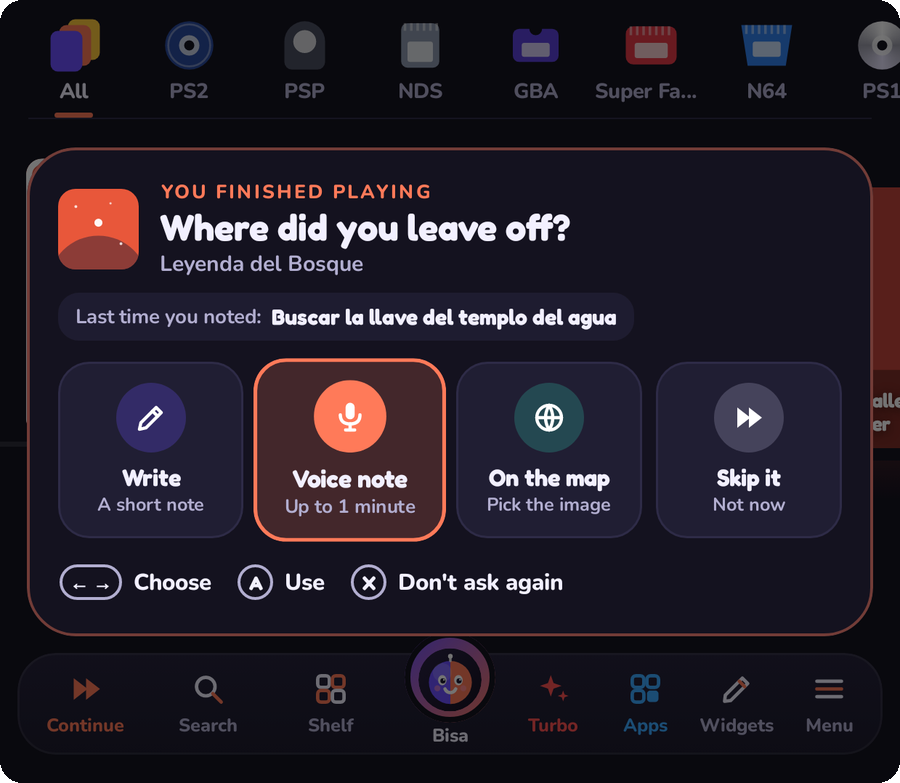
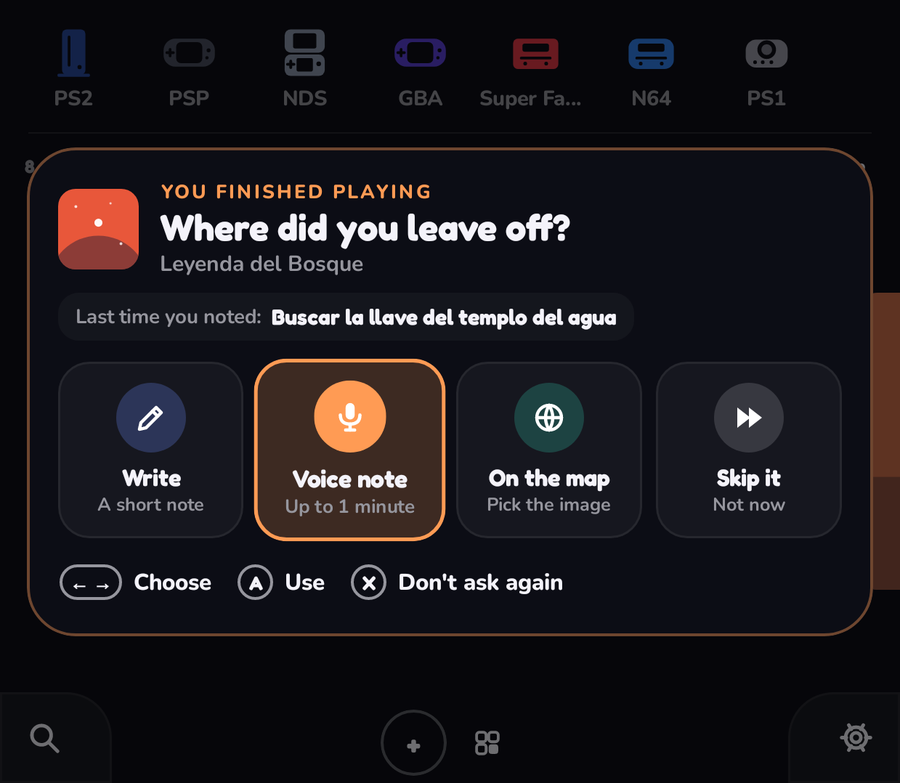
docs: README con capturas nuevas del diseño actual
Reemplaza las cinco capturas y suma carpetas, carrusel, centro de control y bienvenida (README en inglés y en español).

Claude-Session: https://claude.ai/code/session_01DAaLL4fk85SuZX5EWxWxeG

diff --git a/README.es.md b/README.es.md
@@ -12,12 +12,19 @@ En una consola de dos pantallas, el arte del juego se luce arriba y la bibliotec
 
 </div>
 
-<details>
-<summary>Ver capturas de ejemplo</summary>
+<details open>
+<summary>Ver el diseño actual</summary>
 
-<img src="docs/img/pick-screen.png" alt="Elegir pantalla para un juego" width="220">
-<img src="docs/img/widgets.png" alt="Inicio con widgets" width="220">
-<img src="docs/img/themes.png" alt="Tema de Halloween" width="220">
+<img src="docs/img/widgets.png" alt="Inicio con widgets: juego elegido, reloj, música y jugados recientes" width="440">
+<img src="docs/img/pick-screen.png" alt="Elegir pantalla para un juego" width="440">
+<img src="docs/img/folders.png" alt="Carpetas de consolas en la pantalla de abajo" width="220">
+<img src="docs/img/carousel.png" alt="Carrusel de juegos en la pantalla de abajo" width="220">
+<img src="docs/img/where-you-left-off.png" alt="Retomar donde quedaste" width="220">
+<img src="docs/img/control-center.png" alt="Centro de control con ajustes rápidos" width="440">
+<img src="docs/img/welcome-back.png" alt="Pantalla de bienvenida al volver" width="440">
+<img src="docs/img/themes.png" alt="Tema de Halloween en las dos pantallas" width="360">
+
+<sub>Las capturas están en inglés y salen de la versión actual de la app.</sub>
 
 </details>
 

diff --git a/README.md b/README.md
@@ -12,12 +12,17 @@ On a dual-screen handheld, game art fills the top screen and you browse the libr
 
 </div>
 
-<details>
-<summary>See example screenshots</summary>
+<details open>
+<summary>See the current design</summary>
 
-<img src="docs/img/pick-screen.png" alt="Choosing a screen for a game" width="220">
-<img src="docs/img/widgets.png" alt="Widget home" width="220">
-<img src="docs/img/themes.png" alt="Halloween theme" width="220">
+<img src="docs/img/widgets.png" alt="Widget home with the selected game, clock, music and recent games" width="440">
+<img src="docs/img/pick-screen.png" alt="Choosing a screen for a game" width="440">
+<img src="docs/img/folders.png" alt="Console folders on the bottom screen" width="220">
+<img src="docs/img/carousel.png" alt="Game carousel on the bottom screen" width="220">
+<img src="docs/img/where-you-left-off.png" alt="Pick up where you left off" width="220">
+<img src="docs/img/control-center.png" alt="Control center with quick settings" width="440">
+<img src="docs/img/welcome-back.png" alt="Welcome back screen" width="440">
+<img src="docs/img/themes.png" alt="Halloween theme on both screens" width="360">
 
 </details>
 
